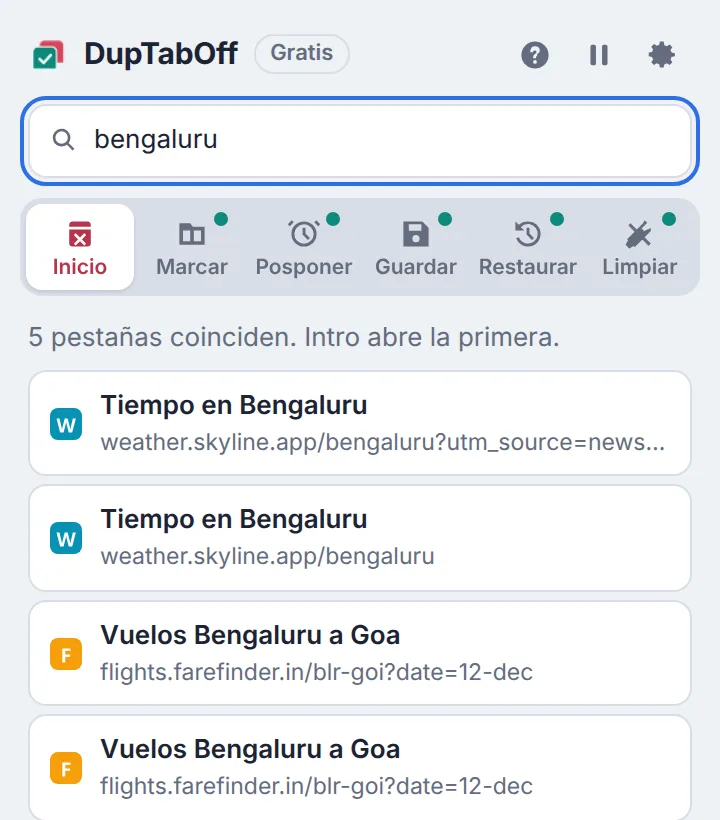
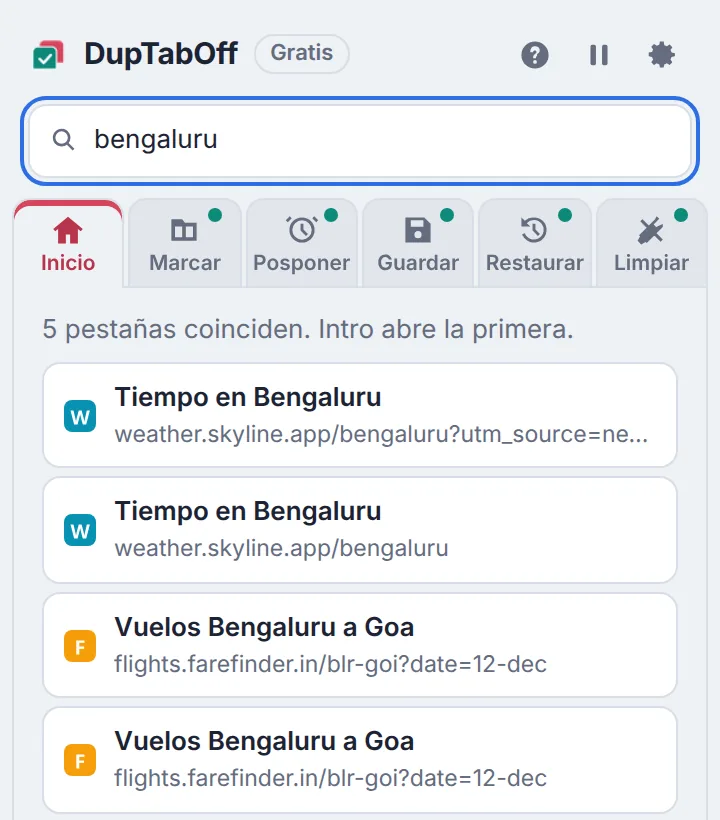
DupTabOff screenshots: new tab design in every language
What changed, in plain words:
DupTabOff's popup now looks different (folder-style tabs, a Home tab, a
tidier Save and Restore screen, and the setting renamed to "Stop duplicate
tabs before they open"), so the website's screenshots were retaken in
English, German, French, Japanese and Spanish to match.

- assets/shots/ and assets/shots/<language>/: the six screenshots per
  language (30 files). The "prevent duplicates" picture now shows the
  Recently stopped duplicates list on the Restore tab and is shorter, so
  its size in assets/shots/sizes.json changed.
- index.html, duptaboff/index.html and their de, fr, ja, es copies: rebuilt
  with build.py, so each picture's fingerprint (?v=...) changes and visitors
  get the new pictures straight away.
- .page-dates.json: page dates from the rebuild.

Checked on a local copy of the site: all 60 screenshots (home and DupTabOff
pages, five languages, at 1280 and 390 pixels wide) load from the right
language folder, have alt text in that language, and nothing scrolls
sideways.

diff --git a/ja/duptaboff/index.html b/ja/duptaboff/index.html
@@ -87,7 +87,7 @@
       <p>DupTabOff のアイコンの数字が、開いている重複タブの数を示します。ポップアップを開くと重複ページが一覧表示され、残るタブと閉じるタブがわかります。</p>
       <ul class="points"><li>http と https、www、末尾のスラッシュ、トラッキングコードの違いは同じページとして扱います</li><li>ページを右クリックして「このページの重複を削除」を選ぶこともできます</li><li>「元に戻す」で閉じたタブを復元 <span class="pro-tag">Pro</span></li></ul>
     </div>
-    <div class="shot-wrap"><img src="../../assets/shots/ja/light.webp?v=966129a4" width="720" height="1150" loading="lazy" alt="重複タブを表示した DupTabOff のポップアップ。4 回開いたページのうち 1 つが残り、3 つが閉じられる"></div>
+    <div class="shot-wrap"><img src="../../assets/shots/ja/light.webp?v=593af5ce" width="720" height="1150" loading="lazy" alt="重複タブを表示した DupTabOff のポップアップ。4 回開いたページのうち 1 つが残り、3 つが閉じられる"></div>
   </section>
   <section class="feature flip">
     <div>
@@ -95,7 +95,7 @@
       <p>すでに開いているページへのリンクやブックマークをクリックすると、新しいタブを開く代わりにそのタブへ移動します。バックグラウンドで開いたリンクは静かに閉じるので、読んでいるページから引き離されることはありません。</p>
       <ul class="points"><li>ログイン画面、フォームの送信結果、意図して複製したタブには触れません</li><li>最近防いだページは「もう一度開く」ボタン付きで一覧表示されます</li></ul>
     </div>
-    <div class="shot-wrap"><img src="../../assets/shots/ja/guard.webp?v=c1e87b05" width="720" height="1200" loading="lazy" alt="防止モードがオンになり、最近防いだ重複ページと「もう一度開く」ボタンが並ぶ画面"></div>
+    <div class="shot-wrap"><img src="../../assets/shots/ja/guard.webp?v=d25e4318" width="720" height="846" loading="lazy" alt="防止モードがオンになり、最近防いだ重複ページと「もう一度開く」ボタンが並ぶ画面"></div>
   </section>
   <section class="feature">
     <div>
@@ -103,7 +103,7 @@
       <p>ポップアップで / を押して入力を始めると、すべてのウィンドウから一致するタブが表示され、Enter キーですぐに移動できます。無料版でも使えます。</p>
       
     </div>
-    <div class="shot-wrap"><img src="../../assets/shots/ja/search.webp?v=92c6f86b" width="720" height="820" loading="lazy" alt="ポップアップ内の検索で、すべてのウィンドウから一致するタブが一覧表示されている"></div>
+    <div class="shot-wrap"><img src="../../assets/shots/ja/search.webp?v=71ecb135" width="720" height="820" loading="lazy" alt="ポップアップ内の検索で、すべてのウィンドウから一致するタブが一覧表示されている"></div>
   </section>
   <section class="feature flip">
     <div>
@@ -111,7 +111,7 @@
       <p>いまタブを閉じて、今日このあと、今夜、明日の朝、来週の月曜、または好きな時刻に自動で戻せます。その時刻に Chrome が閉じていれば、次に開いたときに戻ってきます。</p>
       
     </div>
-    <div class="shot-wrap"><img src="../../assets/shots/ja/snooze.webp?v=a9c2f517" width="720" height="1248" loading="lazy" alt="今日このあと・今夜・明日の朝・来週の月曜を選べるスヌーズ画面と、スヌーズ中の 2 つのタブ"></div>
+    <div class="shot-wrap"><img src="../../assets/shots/ja/snooze.webp?v=009b666a" width="720" height="1254" loading="lazy" alt="今日このあと・今夜・明日の朝・来週の月曜を選べるスヌーズ画面と、スヌーズ中の 2 つのタブ"></div>
   </section>
   <section class="feature">
     <div>
@@ -119,7 +119,7 @@
       <p>開いているタブに名前を付けてセッションとして保存し、フォルダに整理してメモを付けられます。ワンクリックで開き直すと、固定タブやタブグループも元どおり。30 分ごとの自動バックアップでクラッシュにも備えます。</p>
       <ul class="points"><li>セッションをシンプルなリンク集のページとして共有し、誰にでも送れます</li><li>整理ツール：使っていないタブを閉じる、サイトごと閉じる、ウィンドウを統合する、サイト順に並べ替える</li></ul>
     </div>
-    <div class="shot-wrap"><img src="../../assets/shots/ja/restore.webp?v=3ab0fe39" width="720" height="1250" loading="lazy" alt="フォルダごとに整理された保存済みセッションと、「復元」「共有」ボタン"></div>
+    <div class="shot-wrap"><img src="../../assets/shots/ja/restore.webp?v=a7a7af9d" width="720" height="1224" loading="lazy" alt="フォルダごとに整理された保存済みセッションと、「復元」「共有」ボタン"></div>
   </section>
 
   <section class="promise">

diff --git a/fr/duptaboff/index.html b/fr/duptaboff/index.html
@@ -87,7 +87,7 @@
       <p>Le chiffre sur l’icône DupTabOff indique combien de doublons sont ouverts. Ouvrez la fenêtre : chaque page en double est listée, avec la copie conservée et celles qui seront fermées.</p>
       <ul class="points"><li>Considère http et https, www, les barres obliques finales et les codes de suivi comme une même page</li><li>Clic droit sur n’importe quelle page, puis « Supprimer les doublons de cette page »</li><li>Annuler rouvre les onglets que vous venez de fermer <span class="pro-tag">Pro</span></li></ul>
     </div>
-    <div class="shot-wrap"><img src="../../assets/shots/fr/light.webp?v=ef8785ff" width="720" height="1150" loading="lazy" alt="Fenêtre DupTabOff avec des onglets en double : une page ouverte quatre fois, une copie conservée, trois fermées"></div>
+    <div class="shot-wrap"><img src="../../assets/shots/fr/light.webp?v=12fe9463" width="720" height="1150" loading="lazy" alt="Fenêtre DupTabOff avec des onglets en double : une page ouverte quatre fois, une copie conservée, trois fermées"></div>
   </section>
   <section class="feature flip">
     <div>
@@ -95,7 +95,7 @@
       <p>Cliquez sur un lien ou un favori vers une page déjà ouverte : DupTabOff vous amène sur cet onglet au lieu d’en ouvrir une nouvelle copie. Les liens ouverts en arrière-plan sont fermés discrètement, pour ne jamais vous détourner de votre lecture.</p>
       <ul class="points"><li>Ne touche jamais aux fenêtres de connexion, aux résultats de formulaires ni aux onglets dupliqués volontairement</li><li>Les pages bloquées récemment sont listées avec un bouton Rouvrir</li></ul>
     </div>
-    <div class="shot-wrap"><img src="../../assets/shots/fr/guard.webp?v=76a66ddb" width="720" height="1200" loading="lazy" alt="Mode prévention activé, avec la liste des doublons bloqués récemment et des boutons Rouvrir"></div>
+    <div class="shot-wrap"><img src="../../assets/shots/fr/guard.webp?v=93118071" width="720" height="846" loading="lazy" alt="Mode prévention activé, avec la liste des doublons bloqués récemment et des boutons Rouvrir"></div>
   </section>
   <section class="feature">
     <div>
@@ -103,7 +103,7 @@
       <p>Appuyez sur / dans la fenêtre et commencez à taper. Les onglets correspondants de toutes les fenêtres apparaissent au fil de la saisie, et Entrée vous y emmène directement. Gratuit pour tous.</p>
       
     </div>
-    <div class="shot-wrap"><img src="../../assets/shots/fr/search.webp?v=fc7923a9" width="720" height="820" loading="lazy" alt="Une recherche dans la fenêtre liste les onglets correspondants dans toutes les fenêtres"></div>
+    <div class="shot-wrap"><img src="../../assets/shots/fr/search.webp?v=f5834c69" width="720" height="820" loading="lazy" alt="Une recherche dans la fenêtre liste les onglets correspondants dans toutes les fenêtres"></div>
   </section>
   <section class="feature flip">
     <div>
@@ -111,7 +111,7 @@
       <p>Fermez un onglet maintenant et laissez-le revenir tout seul plus tard aujourd’hui, ce soir, demain matin, lundi prochain ou au moment de votre choix. Si Chrome est fermé à ce moment-là, il revient à la prochaine ouverture.</p>
       
     </div>
-    <div class="shot-wrap"><img src="../../assets/shots/fr/snooze.webp?v=32f585a6" width="720" height="1248" loading="lazy" alt="Écran de mise en veille avec plus tard aujourd’hui, ce soir, demain matin et lundi prochain, et deux onglets en veille"></div>
+    <div class="shot-wrap"><img src="../../assets/shots/fr/snooze.webp?v=60da2b85" width="720" height="1254" loading="lazy" alt="Écran de mise en veille avec plus tard aujourd’hui, ce soir, demain matin et lundi prochain, et deux onglets en veille"></div>
   </section>
   <section class="feature">
     <div>
@@ -119,7 +119,7 @@
       <p>Enregistrez vos onglets ouverts sous un nom, rangez-les dans un dossier, ajoutez une note et rouvrez-les en un clic, avec les onglets épinglés et les groupes d’onglets à leur place. Des sauvegardes automatiques toutes les 30 minutes vous protègent des plantages.</p>
       <ul class="points"><li>Partagez une session sous forme de simple page de liens, à envoyer à qui vous voulez</li><li>Outils de rangement : fermer les onglets inutilisés, fermer tout un site, fusionner les fenêtres, trier par site</li></ul>
     </div>
-    <div class="shot-wrap"><img src="../../assets/shots/fr/restore.webp?v=f73ae496" width="720" height="1250" loading="lazy" alt="Sessions enregistrées classées en dossiers, avec les boutons Restaurer et Partager"></div>
+    <div class="shot-wrap"><img src="../../assets/shots/fr/restore.webp?v=a0df0ba9" width="720" height="1224" loading="lazy" alt="Sessions enregistrées classées en dossiers, avec les boutons Restaurer et Partager"></div>
   </section>
 
   <section class="promise">

diff --git a/es/duptaboff/index.html b/es/duptaboff/index.html
@@ -87,7 +87,7 @@
       <p>El número en el icono de DupTabOff te dice cuántos duplicados hay abiertos. Abre la ventana y verás cada página duplicada, con la copia que se queda y las que se cierran.</p>
       <ul class="points"><li>Trata http y https, www, las barras finales y los códigos de seguimiento como la misma página</li><li>Haz clic derecho en cualquier página y elige «Eliminar duplicados de esta página»</li><li>Deshacer recupera las pestañas que acabas de cerrar <span class="pro-tag">Pro</span></li></ul>
     </div>
-    <div class="shot-wrap"><img src="../../assets/shots/es/light.webp?v=07a19ff7" width="720" height="1150" loading="lazy" alt="Ventana de DupTabOff con pestañas duplicadas: una página abierta cuatro veces, una copia se queda y tres se cierran"></div>
+    <div class="shot-wrap"><img src="../../assets/shots/es/light.webp?v=6fedea82" width="720" height="1150" loading="lazy" alt="Ventana de DupTabOff con pestañas duplicadas: una página abierta cuatro veces, una copia se queda y tres se cierran"></div>
   </section>
   <section class="feature flip">
     <div>
@@ -95,7 +95,7 @@
       <p>Haz clic en un enlace o marcador a una página que ya tienes abierta y DupTabOff te lleva a esa pestaña en lugar de abrir otra copia. Los enlaces que abres en segundo plano se cierran discretamente, para que nunca te saquen de lo que estás leyendo.</p>
       <ul class="points"><li>Nunca toca ventanas de inicio de sesión, resultados de formularios ni pestañas duplicadas a propósito</li><li>Las páginas evitadas recientemente aparecen con un botón para volver a abrirlas</li></ul>
     </div>
-    <div class="shot-wrap"><img src="../../assets/shots/es/guard.webp?v=9db2a994" width="720" height="1200" loading="lazy" alt="Modo de prevención activado, con una lista de duplicados evitados recientemente y botones para volver a abrirlos"></div>
+    <div class="shot-wrap"><img src="../../assets/shots/es/guard.webp?v=4e201bec" width="720" height="846" loading="lazy" alt="Modo de prevención activado, con una lista de duplicados evitados recientemente y botones para volver a abrirlos"></div>
   </section>
   <section class="feature">
     <div>
@@ -103,7 +103,7 @@
       <p>Pulsa / en la ventana y empieza a escribir. Las pestañas que coinciden, de todas las ventanas, aparecen mientras escribes, e Intro te lleva directamente. Gratis para todos.</p>
       
     </div>
-    <div class="shot-wrap"><img src="../../assets/shots/es/search.webp?v=72f65d66" width="720" height="820" loading="lazy" alt="Una búsqueda en la ventana muestra las pestañas que coinciden en todas las ventanas"></div>
+    <div class="shot-wrap"><img src="../../assets/shots/es/search.webp?v=49bf2d83" width="720" height="820" loading="lazy" alt="Una búsqueda en la ventana muestra las pestañas que coinciden en todas las ventanas"></div>
   </section>
   <section class="feature flip">
     <div>
@@ -111,7 +111,7 @@
       <p>Cierra una pestaña ahora y haz que vuelva sola más tarde hoy, esta noche, mañana por la mañana, el próximo lunes o cuando tú elijas. Si Chrome está cerrado en ese momento, vuelve la próxima vez que lo abras.</p>
       
     </div>
-    <div class="shot-wrap"><img src="../../assets/shots/es/snooze.webp?v=ff93bf62" width="720" height="1286" loading="lazy" alt="Pantalla para posponer con más tarde hoy, esta noche, mañana por la mañana y el próximo lunes, y dos pestañas pospuestas"></div>
+    <div class="shot-wrap"><img src="../../assets/shots/es/snooze.webp?v=20d890d1" width="720" height="1292" loading="lazy" alt="Pantalla para posponer con más tarde hoy, esta noche, mañana por la mañana y el próximo lunes, y dos pestañas pospuestas"></div>
   </section>
   <section class="feature">
     <div>
@@ -119,7 +119,7 @@
       <p>Guarda tus pestañas abiertas como una sesión con nombre, archívala en una carpeta, añade una nota y vuelve a abrirla con un clic, con las pestañas fijadas y los grupos de pestañas en su sitio. Las copias de seguridad automáticas cada 30 minutos te protegen de los fallos.</p>
       <ul class="points"><li>Comparte una sesión como una sencilla página de enlaces que puedes enviar a cualquiera</li><li>Herramientas de limpieza: cerrar pestañas sin usar, cerrar un sitio entero, unir ventanas, ordenar por sitio</li></ul>
     </div>
-    <div class="shot-wrap"><img src="../../assets/shots/es/restore.webp?v=1c6fb6d7" width="720" height="1250" loading="lazy" alt="Sesiones guardadas organizadas en carpetas, con botones para restaurar y compartir"></div>
+    <div class="shot-wrap"><img src="../../assets/shots/es/restore.webp?v=acb528de" width="720" height="1224" loading="lazy" alt="Sesiones guardadas organizadas en carpetas, con botones para restaurar y compartir"></div>
   </section>
 
   <section class="promise">

diff --git a/de/duptaboff/index.html b/de/duptaboff/index.html
@@ -87,7 +87,7 @@
       <p>Die Zahl am DupTabOff-Symbol zeigt, wie viele Duplikate offen sind. Im Fenster wird jede doppelte Seite aufgelistet, mit der Kopie, die bleibt, und den Kopien, die geschlossen werden.</p>
       <ul class="points"><li>Behandelt http und https, www, Schrägstriche am Ende und Tracking-Codes als dieselbe Seite</li><li>Rechtsklick auf eine Seite und „Duplikate dieser Seite entfernen“ wählen</li><li>Rückgängig holt die gerade geschlossenen Tabs zurück <span class="pro-tag">Pro</span></li></ul>
     </div>
-    <div class="shot-wrap"><img src="../../assets/shots/de/light.webp?v=6ee163e5" width="720" height="1150" loading="lazy" alt="DupTabOff-Fenster mit doppelten Tabs: eine Seite ist viermal geöffnet, eine Kopie bleibt, drei werden geschlossen"></div>
+    <div class="shot-wrap"><img src="../../assets/shots/de/light.webp?v=162bf6db" width="720" height="1150" loading="lazy" alt="DupTabOff-Fenster mit doppelten Tabs: eine Seite ist viermal geöffnet, eine Kopie bleibt, drei werden geschlossen"></div>
   </section>
   <section class="feature flip">
     <div>
@@ -95,7 +95,7 @@
       <p>Klicken Sie auf einen Link oder ein Lesezeichen zu einer bereits geöffneten Seite, bringt DupTabOff Sie zu diesem Tab, statt eine weitere Kopie zu öffnen. Im Hintergrund geöffnete Links werden still geschlossen – Sie werden nie aus dem gerissen, was Sie gerade lesen.</p>
       <ul class="points"><li>Lässt Anmeldefenster, Formularergebnisse und bewusst duplizierte Tabs immer in Ruhe</li><li>Zuletzt verhinderte Seiten werden mit einer Schaltfläche „Erneut öffnen“ aufgelistet</li></ul>
     </div>
-    <div class="shot-wrap"><img src="../../assets/shots/de/guard.webp?v=4b634f2f" width="720" height="1200" loading="lazy" alt="Vorbeugemodus eingeschaltet, mit einer Liste zuletzt verhinderter Duplikate und Schaltflächen zum erneuten Öffnen"></div>
+    <div class="shot-wrap"><img src="../../assets/shots/de/guard.webp?v=1ec2a6fb" width="720" height="846" loading="lazy" alt="Vorbeugemodus eingeschaltet, mit einer Liste zuletzt verhinderter Duplikate und Schaltflächen zum erneuten Öffnen"></div>
   </section>
   <section class="feature">
     <div>
@@ -103,7 +103,7 @@
       <p>Drücken Sie im Fenster / und tippen Sie los. Passende Tabs aus allen Fenstern erscheinen beim Tippen, und die Eingabetaste bringt Sie direkt dorthin. Kostenlos für alle.</p>
       
     </div>
-    <div class="shot-wrap"><img src="../../assets/shots/de/search.webp?v=be37fa51" width="720" height="820" loading="lazy" alt="Eine Suche im Fenster listet passende Tabs aus allen Fenstern auf"></div>
+    <div class="shot-wrap"><img src="../../assets/shots/de/search.webp?v=c2375e5b" width="720" height="820" loading="lazy" alt="Eine Suche im Fenster listet passende Tabs aus allen Fenstern auf"></div>
   </section>
   <section class="feature flip">
     <div>
@@ -111,7 +111,7 @@
       <p>Schließen Sie einen Tab jetzt und lassen Sie ihn von selbst zurückkommen: später heute, heute Abend, morgen früh, nächsten Montag oder zu einer Zeit Ihrer Wahl. Ist Chrome dann geschlossen, kommt er beim nächsten Start zurück.</p>
       
     </div>
-    <div class="shot-wrap"><img src="../../assets/shots/de/snooze.webp?v=89632759" width="720" height="1248" loading="lazy" alt="Schlummer-Ansicht mit später heute, heute Abend, morgen früh und nächsten Montag sowie zwei schlummernden Tabs"></div>
+    <div class="shot-wrap"><img src="../../assets/shots/de/snooze.webp?v=3aa80b88" width="720" height="1254" loading="lazy" alt="Schlummer-Ansicht mit später heute, heute Abend, morgen früh und nächsten Montag sowie zwei schlummernden Tabs"></div>
   </section>
   <section class="feature">
     <div>
@@ -119,7 +119,7 @@
       <p>Speichern Sie Ihre offenen Tabs als benannte Sitzung, legen Sie sie in einem Ordner ab, fügen Sie eine Notiz hinzu und öffnen Sie sie mit einem Klick wieder – mit angehefteten Tabs und Tab-Gruppen an ihrem Platz. Automatische Sicherungen alle 30 Minuten schützen vor Abstürzen.</p>
       <ul class="points"><li>Eine Sitzung als einfache Linkseite teilen, die Sie jedem schicken können</li><li>Aufräum-Werkzeuge: ungenutzte Tabs schließen, eine ganze Website schließen, Fenster zusammenführen, nach Website sortieren</li></ul>
     </div>
-    <div class="shot-wrap"><img src="../../assets/shots/de/restore.webp?v=db6692f1" width="720" height="1250" loading="lazy" alt="Gespeicherte Sitzungen in Ordnern, mit Schaltflächen zum Wiederherstellen und Teilen"></div>
+    <div class="shot-wrap"><img src="../../assets/shots/de/restore.webp?v=74154f02" width="720" height="1224" loading="lazy" alt="Gespeicherte Sitzungen in Ordnern, mit Schaltflächen zum Wiederherstellen und Teilen"></div>
   </section>
 
   <section class="promise">

diff --git a/duptaboff/index.html b/duptaboff/index.html
@@ -87,7 +87,7 @@
       <p>The number on the DupTabOff icon tells you how many duplicates are open. Open the popup and each duplicated page is listed, with the copy that stays and the copies that close.</p>
       <ul class="points"><li>Treats http and https, www, trailing slashes and tracking codes as the same page</li><li>Right-click any page and choose "Remove duplicates of this page"</li><li>Undo brings back the tabs you just removed <span class="pro-tag">Pro</span></li></ul>
     </div>
-    <div class="shot-wrap"><img src="../assets/shots/light.webp?v=2638af88" width="720" height="1150" loading="lazy" alt="DupTabOff popup showing duplicate tabs, with one page open four times: one copy stays, three close"></div>
+    <div class="shot-wrap"><img src="../assets/shots/light.webp?v=bbe14d14" width="720" height="1150" loading="lazy" alt="DupTabOff popup showing duplicate tabs, with one page open four times: one copy stays, three close"></div>
   </section>
   <section class="feature flip">
     <div>
@@ -95,7 +95,7 @@
       <p>Click a link or bookmark to a page you already have open, and DupTabOff takes you to that tab instead of opening another copy. Links you open in the background close quietly, so you're never pulled away from what you're reading.</p>
       <ul class="points"><li>Never touches sign-in windows, form results or tabs you duplicated on purpose</li><li>Recently stopped pages are listed with a Reopen button</li></ul>
     </div>
-    <div class="shot-wrap"><img src="../assets/shots/guard.webp?v=82a917c5" width="720" height="1200" loading="lazy" alt="Prevention mode switched on, with a list of recently stopped duplicate pages and Reopen buttons"></div>
+    <div class="shot-wrap"><img src="../assets/shots/guard.webp?v=919829fd" width="720" height="846" loading="lazy" alt="Prevention mode switched on, with a list of recently stopped duplicate pages and Reopen buttons"></div>
   </section>
   <section class="feature">
     <div>
@@ -103,7 +103,7 @@
       <p>Press / in the popup and start typing. Matching tabs from every window appear as you type, and Enter takes you straight there. Free for everyone.</p>
       
     </div>
-    <div class="shot-wrap"><img src="../assets/shots/search.webp?v=e46c73ba" width="720" height="820" loading="lazy" alt="A search in the popup listing matching tabs across windows"></div>
+    <div class="shot-wrap"><img src="../assets/shots/search.webp?v=068af1b2" width="720" height="820" loading="lazy" alt="A search in the popup listing matching tabs across windows"></div>
   </section>
   <section class="feature flip">
     <div>
@@ -111,7 +111,7 @@
       <p>Close a tab now and have it come back by itself later today, this evening, tomorrow morning, next Monday or any time you pick. If Chrome is closed then, it comes back the next time you open it.</p>
       
     </div>
-    <div class="shot-wrap"><img src="../assets/shots/snooze.webp?v=dbe9d0c1" width="720" height="1248" loading="lazy" alt="Snooze screen with later today, this evening, tomorrow morning and next Monday, and two snoozed tabs"></div>
+    <div class="shot-wrap"><img src="../assets/shots/snooze.webp?v=4f4cc667" width="720" height="1254" loading="lazy" alt="Snooze screen with later today, this evening, tomorrow morning and next Monday, and two snoozed tabs"></div>
   </section>
   <section class="feature">
     <div>
@@ -119,7 +119,7 @@
       <p>Save your open tabs as a named session, file it in a folder, add a note, and reopen it in one click with pinned tabs and tab groups back in place. Automatic backups every 30 minutes protect you from crashes.</p>
       <ul class="points"><li>Share a session as a simple page of links you can send to anyone</li><li>Clean-up tools: close unused tabs, close a whole site, merge windows, sort by site</li></ul>
     </div>
-    <div class="shot-wrap"><img src="../assets/shots/restore.webp?v=c6cda379" width="720" height="1250" loading="lazy" alt="Saved sessions grouped into folders, with Restore and Share buttons"></div>
+    <div class="shot-wrap"><img src="../assets/shots/restore.webp?v=64ec8442" width="720" height="1224" loading="lazy" alt="Saved sessions grouped into folders, with Restore and Share buttons"></div>
   </section>
 
   <section class="promise">

diff --git a/ja/index.html b/ja/index.html
@@ -91,7 +91,7 @@
         <span class="fine">無料。Lifetime Pro は $4.99 の買い切り</span>
       </div>
     </div>
-    <img class="shot" src="../assets/shots/ja/light.webp?v=966129a4" width="720" height="1150" loading="lazy" alt="重複タブの一覧と、各ページでどのタブが残るかを表示した DupTabOff のポップアップ">
+    <img class="shot" src="../assets/shots/ja/light.webp?v=593af5ce" width="720" height="1150" loading="lazy" alt="重複タブの一覧と、各ページでどのタブが残るかを表示した DupTabOff のポップアップ">
   </article>
   <p class="more">新しい製品を開発中です。次につくってほしいもののアイデアは <a href="mailto:support@purplewonton.com">support@purplewonton.com</a> までお寄せください。</p>
 </section>

diff --git a/fr/index.html b/fr/index.html
@@ -91,7 +91,7 @@
         <span class="fine">Gratuit, Lifetime Pro pour $4.99 en paiement unique</span>
       </div>
     </div>
-    <img class="shot" src="../assets/shots/fr/light.webp?v=ef8785ff" width="720" height="1150" loading="lazy" alt="La fenêtre DupTabOff liste les onglets en double et indique quelle copie de chaque page reste ouverte">
+    <img class="shot" src="../assets/shots/fr/light.webp?v=12fe9463" width="720" height="1150" loading="lazy" alt="La fenêtre DupTabOff liste les onglets en double et indique quelle copie de chaque page reste ouverte">
   </article>
   <p class="more">D’autres produits sont en préparation. Vos idées pour la suite sont les bienvenues à <a href="mailto:support@purplewonton.com">support@purplewonton.com</a>.</p>
 </section>

diff --git a/es/index.html b/es/index.html
@@ -91,7 +91,7 @@
         <span class="fine">Gratis, con Lifetime Pro por $4.99 en un solo pago</span>
       </div>
     </div>
-    <img class="shot" src="../assets/shots/es/light.webp?v=07a19ff7" width="720" height="1150" loading="lazy" alt="La ventana de DupTabOff muestra las pestañas duplicadas y qué copia de cada página se queda abierta">
+    <img class="shot" src="../assets/shots/es/light.webp?v=6fedea82" width="720" height="1150" loading="lazy" alt="La ventana de DupTabOff muestra las pestañas duplicadas y qué copia de cada página se queda abierta">
   </article>
   <p class="more">Hay más productos en camino. Tus ideas sobre qué crear después son bienvenidas en <a href="mailto:support@purplewonton.com">support@purplewonton.com</a>.</p>
 </section>

diff --git a/de/index.html b/de/index.html
@@ -91,7 +91,7 @@
         <span class="fine">Kostenlos, Lifetime Pro für einmalig $4.99</span>
       </div>
     </div>
-    <img class="shot" src="../assets/shots/de/light.webp?v=6ee163e5" width="720" height="1150" loading="lazy" alt="Das DupTabOff-Fenster listet doppelte Tabs auf und zeigt, welche Kopie jeder Seite geöffnet bleibt">
+    <img class="shot" src="../assets/shots/de/light.webp?v=162bf6db" width="720" height="1150" loading="lazy" alt="Das DupTabOff-Fenster listet doppelte Tabs auf und zeigt, welche Kopie jeder Seite geöffnet bleibt">
   </article>
   <p class="more">Weitere Produkte sind in Arbeit. Ideen, was wir als Nächstes bauen sollen, gerne an <a href="mailto:support@purplewonton.com">support@purplewonton.com</a>.</p>
 </section>

diff --git a/index.html b/index.html
@@ -91,7 +91,7 @@
         <span class="fine">Free, with Lifetime Pro for $4.99 once</span>
       </div>
     </div>
-    <img class="shot" src="assets/shots/light.webp?v=2638af88" width="720" height="1150" loading="lazy" alt="The DupTabOff popup listing duplicate tabs and which copy of each page stays open">
+    <img class="shot" src="assets/shots/light.webp?v=bbe14d14" width="720" height="1150" loading="lazy" alt="The DupTabOff popup listing duplicate tabs and which copy of each page stays open">
   </article>
   <p class="more">More products are in the works. Ideas for what we should build next are welcome at <a href="mailto:support@purplewonton.com">support@purplewonton.com</a>.</p>
 </section>
